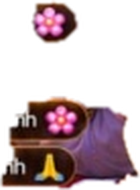
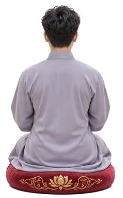
feat(sprites): slice and integrate 10 diverse photorealistic Buddhist devotee sprites on meditation cushions

diff --git a/public/js/live.js b/public/js/live.js
@@ -222,6 +222,22 @@ import { dispatchGiftSfx } from './gift-sfx-dispatcher.js';
   }
   window.setHallDevoteeCount = setHallDevoteeCount;
 
+  const FEMALE_SPRITES = [
+    '/assets/devotees/devotee_f1.png',
+    '/assets/devotees/devotee_f2.png',
+    '/assets/devotees/devotee_f3.png',
+    '/assets/devotees/devotee_f4.png',
+    '/assets/devotees/devotee_f5.png'
+  ];
+
+  const MALE_SPRITES = [
+    '/assets/devotees/devotee_m1.png',
+    '/assets/devotees/devotee_m2.png',
+    '/assets/devotees/devotee_m3.png',
+    '/assets/devotees/devotee_m4.png',
+    '/assets/devotees/devotee_m5.png'
+  ];
+
   function renderCongregationHall(leaderboard = []) {
     if (!congregationHall) return;
     cachedLeaderboard = leaderboard;
@@ -259,7 +275,9 @@ import { dispatchGiftSfx } from './gift-sfx-dispatcher.js';
         showBadge = seat.isAisle || (hallViewers[idx].merit > 0);
       }
 
-      const spriteSrc = seat.isFemale ? '/assets/devotee_female.png' : '/assets/devotee_male.png';
+      // Chọn đa dạng 1 trong 5 kiểu nhân vật khác nhau để không bị trùng lặp
+      const variantIdx = (seat.row * 3 + seat.col + (seat.side === 'R' ? 2 : 0)) % 5;
+      const spriteSrc = seat.isFemale ? FEMALE_SPRITES[variantIdx] : MALE_SPRITES[variantIdx];
 
       const badgeHtml = (showBadge && displayName)
         ? `
